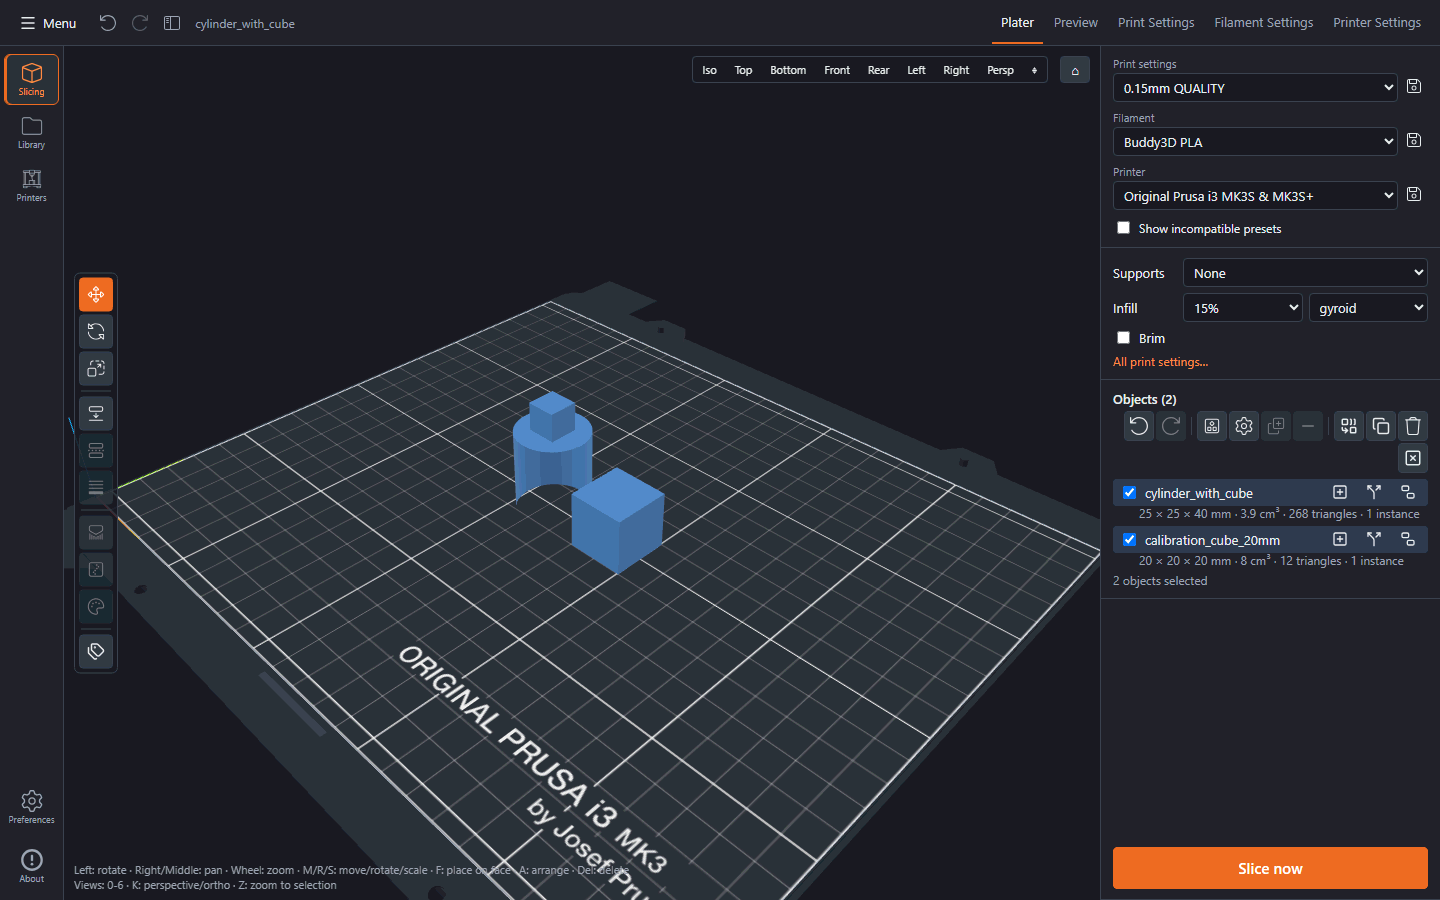
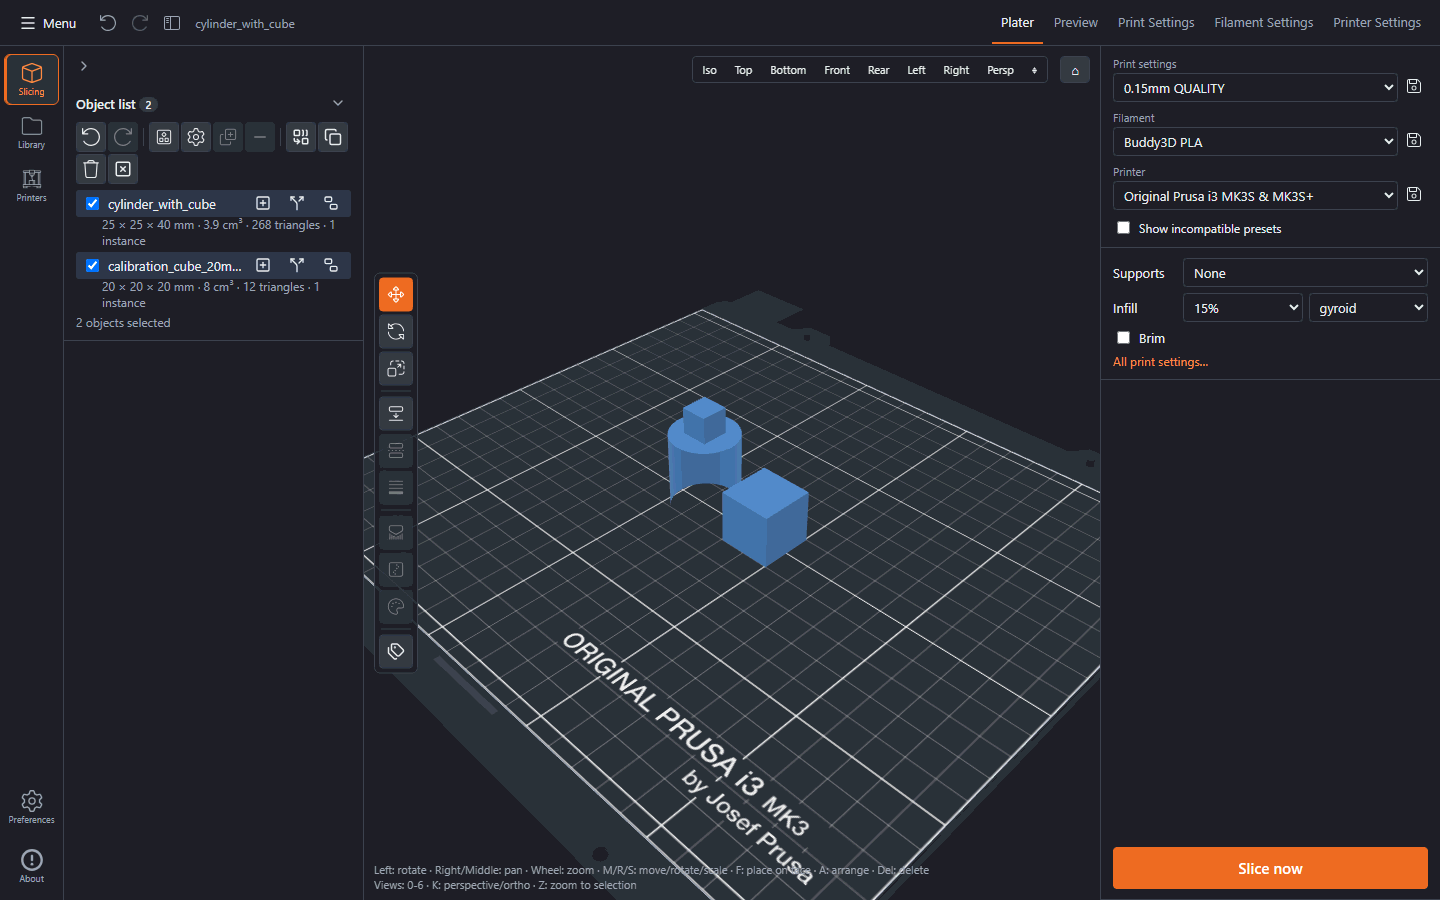
Docs: the refreshed screenshots, the hook list and the E2E state type
- docs/images/: the plater, hero, cut-tool, preview and library shots show
  the object list column (npm run docs:screenshots on the fixture image)
- CONVENTIONS: the rail and left-column hooks join the hook list
- the E2E state type gains leftWidth, which the sidebar spec reads when it
  restores the column track

diff --git a/e2e/helpers/store-types.ts b/e2e/helpers/store-types.ts
@@ -166,6 +166,8 @@ export interface E2EState {
   brushRadius: number;
   view: string;
   mode: 'simple' | 'advanced' | 'expert';
+  /** the width of the open left column in px (layout 3.0, remembered per browser) */
+  leftWidth: number;
   sliceDirty: boolean;
   undoStack: unknown[];
   redoStack: unknown[];

diff --git a/docs/work-packages/CONVENTIONS.md b/docs/work-packages/CONVENTIONS.md
@@ -168,7 +168,10 @@ regions. A spec that encodes _where_ an element sits (`.sidebar .quick-settings`
 `.tool-bar button:nth-child(2)`, a descendant chain through a container) breaks on every move.
 
 - Structural elements carry a `data-testid` hook named by **role, not place**: `app-shell`,
-  `top-bar`, `sidebar`, `presets`, `preset-select-<type>`, `object-list`, `object-toolbar`,
+  `top-bar`, `rail` (+ `-slicing`, `-library`, `-printers`, `-preferences`, `-about`), `menu`,
+  `hide-panels`, `sidebar`, `left-column` (+ `-toggle`, `left-objects-toggle`,
+  `left-sliced-toggle`, `left-legend-toggle`, `objects-drawer-toggle`), `presets`,
+  `preset-select-<type>`, `object-list`, `object-toolbar`,
   `object-row` (plus `data-object-id`), `object-info`, `quick-settings`, `slice-panel`,
   `slice-button`, `tool-bar`, `tool-<toolId>`, `tool-panel` (+ `-title`, `-foot`, `-close`),
   `modal` (+ `-title`, `-actions`, `-primary`, `-close`, `-backdrop`), `preview-panel`,
